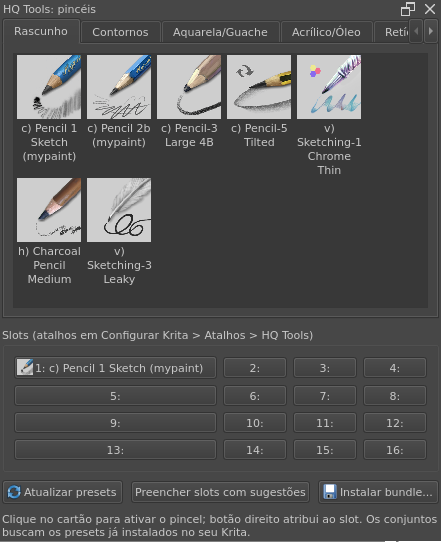
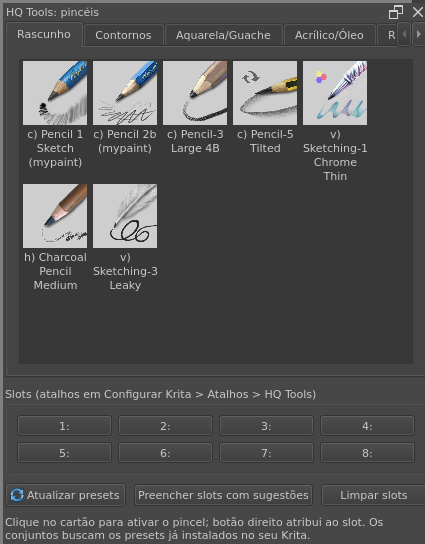
docs: screenshots do autor (Moodboard novo; hub, 3D e pinceis atualizados)
- Galeria PT/EN com 13-Moodboard.png; alts do hub (dez modulos), do 3D
  (camera 14 mm, manequim azul) e dos pinceis (8 slots e Limpar slots).
- SESSION com a chegada das capturas.

diff --git a/README.md b/README.md
@@ -31,7 +31,7 @@ Os quatro documentos originais de contexto do projeto estão em
 
 | Páginas | Biblioteca | Pincéis |
 |---|---|---|
-| ![Gerenciador de páginas](Screenshots/00-paginas.png) | ![Biblioteca do projeto](Screenshots/02-biblioteca.png) | ![Pincéis e slots](Screenshots/03-pinceis.png) |
+| ![Gerenciador de páginas](Screenshots/00-paginas.png) | ![Biblioteca do projeto](Screenshots/02-biblioteca.png) | ![Docker de pincéis com os cartões dos conjuntos, os 8 slots e o botão Limpar slots](Screenshots/03-pinceis.png) |
 
 | Retículas e linhas de ação | Onomatopeias | Paletas |
 |---|---|---|
@@ -39,11 +39,15 @@ Os quatro documentos originais de contexto do projeto estão em
 
 | Visualizador 3D | Hub |
 |---|---|
-| ![Docker 3D com abas Pose, Câmera e Inserir, manequim em corrida e os sliders das juntas](Screenshots/07-3d.png) | ![Docker Hub com os botões que abrem e fecham os módulos do plugin](Screenshots/10-hub.png) |
+| ![Docker 3D com abas Pose, Câmera e Inserir, manequim em corrida e os sliders das juntas](Screenshots/07-3d.png) | ![Docker Hub com os botões que abrem e fecham todos os dez módulos, incluindo o Moodboard](Screenshots/10-hub.png) |
 
 | Biblioteca de perspectivas | Hub e 3D no Krita |
 |---|---|
-| ![Docker de perspectiva com a galeria de malhas, a prévia ampliada e os botões de inserir na seleção](Screenshots/11-perspectiva.png) | ![Krita com o hub e o docker 3D abertos e o manequim já inserido em uma página](Screenshots/12-hub-e-3d.png) |
+| ![Docker de perspectiva com a galeria de malhas, a prévia ampliada e os botões de inserir na seleção](Screenshots/11-perspectiva.png) | ![Krita com o hub e o docker 3D abertos (câmera perspectiva de 14 mm, manequim azul) e o manequim já inserido em uma página](Screenshots/12-hub-e-3d.png) |
+
+| Moodboard |
+|---|
+| ![Docker Moodboard com a pasta de referências do projeto, a lista de referências linkadas e os botões de adicionar, inserir na seleção, renomear e apagar](Screenshots/13-Moodboard.png) |
 
 ## Módulos
 

diff --git a/README.en.md b/README.en.md
@@ -32,7 +32,7 @@ The four original context documents of the project are in `docs/contexto/`
 
 | Pages | Library | Brushes |
 |---|---|---|
-| ![Page manager](Screenshots/00-paginas.png) | ![Project library](Screenshots/02-biblioteca.png) | ![Brushes and slots](Screenshots/03-pinceis.png) |
+| ![Page manager](Screenshots/00-paginas.png) | ![Project library](Screenshots/02-biblioteca.png) | ![Brushes docker with the set cards, the 8 slots and the Clear slots button](Screenshots/03-pinceis.png) |
 
 | Screentones and action lines | Onomatopoeia | Palettes |
 |---|---|---|
@@ -40,11 +40,15 @@ The four original context documents of the project are in `docs/contexto/`
 
 | 3D viewer | Hub |
 |---|---|
-| ![3D docker with the Pose, Camera and Insert tabs, a running mannequin and the joint sliders](Screenshots/07-3d.png) | ![Hub docker with the buttons that open and close the plugin modules](Screenshots/10-hub.png) |
+| ![3D docker with the Pose, Camera and Insert tabs, a running mannequin and the joint sliders](Screenshots/07-3d.png) | ![Hub docker with the buttons that open and close all ten modules, including Moodboard](Screenshots/10-hub.png) |
 
 | Perspective library | Hub and 3D in Krita |
 |---|---|
-| ![Perspective docker with the grid gallery, the enlarged preview and the insert-into-selection buttons](Screenshots/11-perspectiva.png) | ![Krita with the hub and the 3D docker open and the mannequin already inserted into a page](Screenshots/12-hub-e-3d.png) |
+| ![Perspective docker with the grid gallery, the enlarged preview and the insert-into-selection buttons](Screenshots/11-perspectiva.png) | ![Krita with the hub and the 3D docker open (14 mm perspective camera, blue mannequin) and the mannequin already inserted into a page](Screenshots/12-hub-e-3d.png) |
+
+| Moodboard |
+|---|
+| ![Moodboard docker with the project references folder, the list of linked references and the add, insert-into-selection, rename and delete buttons](Screenshots/13-Moodboard.png) |
 
 ## Modules
 
